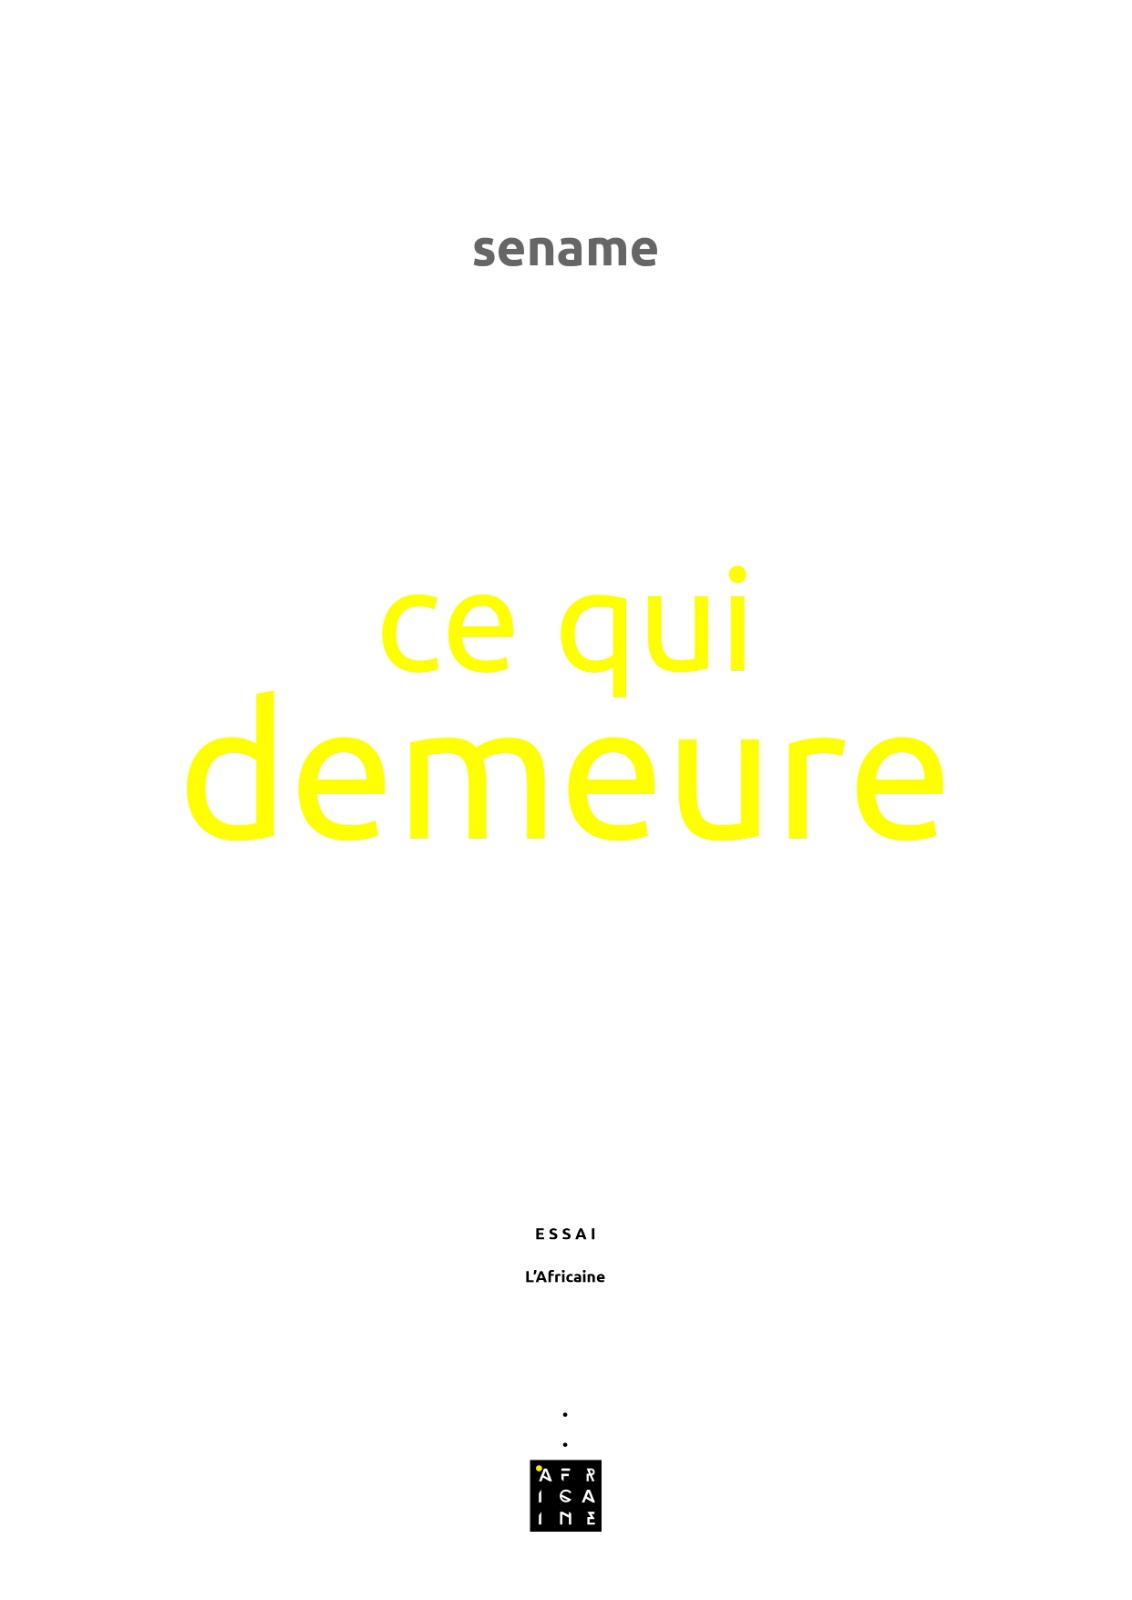
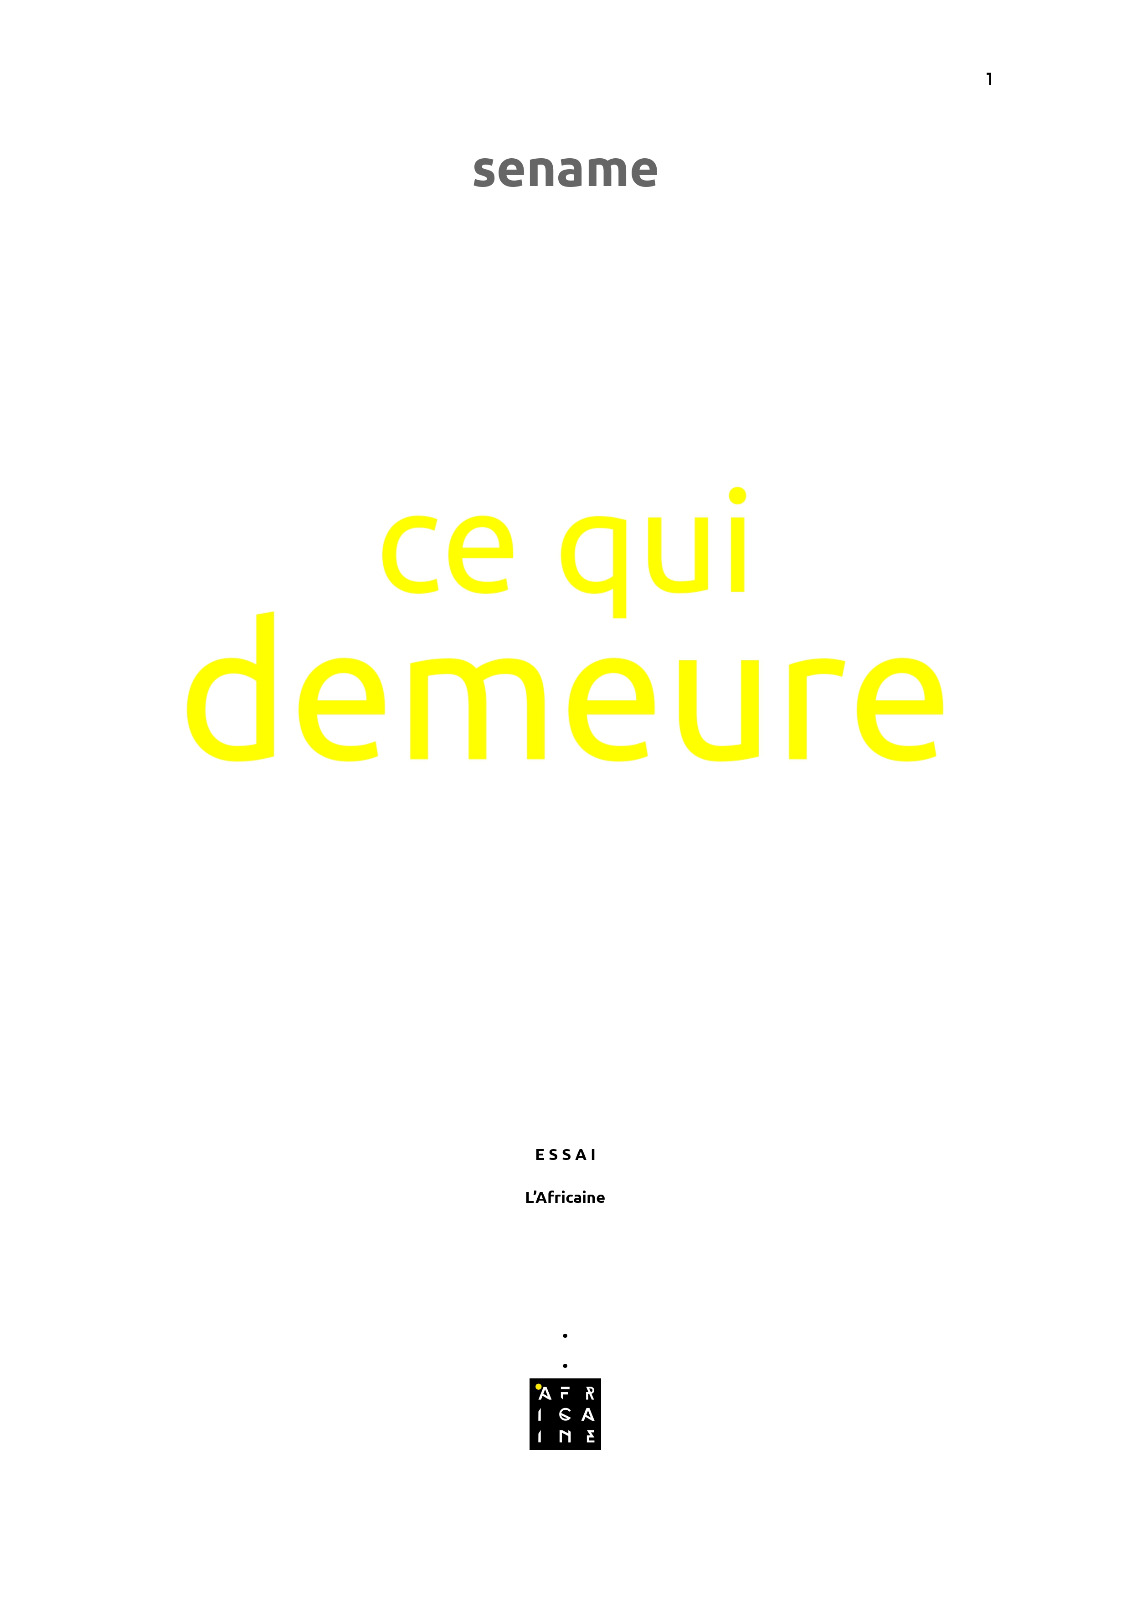
Fix image rendering artifact on ce-qui-demeure

diff --git a/src/components/BookCover.tsx b/src/components/BookCover.tsx
@@ -32,7 +32,7 @@ export default function BookCover({
         "decoloniser-le-futur": "decoloniserlefutur.jpg",
         "le-centre-de-flammes": "centredeflammes.jpg",
         "ce-qui-demeure": "cequidemeure.jpg",
-        "a-l-endroit": "a-lendroit.jpg",
+        "a-l-endroit": "a-lendroit.png",
         "cosmo-architecture": "principe-dune-cosmos-architecture.jpg",
         "comprendre-architecture-afrique": "comprendre-architecture-en-afrique-noir.jpg",
         "esthetiques-du-feminin": "esthetiquedufeminin.jpg",
@@ -43,58 +43,59 @@ export default function BookCover({
 
     const imageFile = slug ? imageMap[slug] : undefined;
 
-    return (
-        <div className={`relative flex flex-col justify-between overflow-hidden ${className}`} style={{ backgroundColor: bgColor, aspectRatio: "3 / 4", width: "100%", position: "relative" }}>
-            {imageFile ? (
-                <Image
+    if (imageFile) {
+        return (
+            <div className={`relative flex flex-col justify-between overflow-hidden ${className}`} style={{ width: "100%", height: "100%", position: "relative" }}>
+                <img
                     src={`/article/${imageFile}`}
                     alt={title || "Description"}
-                    fill
-                    className="object-contain"
-                    quality={100}
-                    priority
+                    style={{ width: "100%", height: "100%", objectFit: "cover", display: "block" }}
                 />
-            ) : (
-                <div style={{ padding: "12% 8%", textAlign: "center", display: "flex", flexDirection: "column", justifyContent: "space-between", height: "100%", backgroundColor: bgColor }}>
-                    <div style={{ marginTop: "0.5rem" }}>
-                        <span className="text-gray-900/60 lowercase" style={{ fontSize: "0.9rem", letterSpacing: "0.15em", fontWeight: 500 }}>{authorName}</span>
-                    </div>
-                    <div className="flex flex-col items-center justify-center flex-1 px-1">
-                        <h3 style={{
-                            fontSize: title.length > 35 ? "clamp(1.1rem, 2.3vw, 1.35rem)" :
-                                title.length > 25 ? "clamp(1.2rem, 2.5vw, 1.6rem)" :
-                                    "clamp(1.8rem, 3.2vw, 2.6rem)",
-                            lineHeight: "0.95",
-                            fontWeight: 700,
-                            color: "#FFEA00",
-                            letterSpacing: "-0.03em",
-                            wordBreak: "keep-all",
-                            overflowWrap: "normal",
-                            whiteSpace: "pre-line",
-                            textAlign: "center"
-                        }}>
-                            {title.toLowerCase() === "à l'endroit !" ? (
-                                <>à<br />l'endroit !</>
-                            ) : title.toLowerCase() === "décoloniser le futur" ? (
-                                <>décoloniser<br />le futur</>
-                            ) : title.toLowerCase().includes("comprendre l'architecture") ? (
-                                <>comprendre<br />l'architecture<br />en afrique<br />noire</>
-                            ) : title}
-                        </h3>
-                        {subtitle && <p className="mt-2 lowercase italic text-gray-800" style={{ fontSize: "0.62rem", letterSpacing: "0.04em", lineHeight: "1.2", fontWeight: 400 }}>{subtitle}</p>}
-                    </div>
-                    <div className="flex flex-col items-center gap-2">
-                        <div className="flex flex-col items-center">
-                            <span className="text-[0.6rem] font-bold uppercase tracking-[0.3em] text-black">
-                                {title.toLowerCase().includes("flammes") || title.toLowerCase().includes("girations") ? "POESIE" : title.toLowerCase().includes("rencontres") ? "NOUVELLES" : (title.toLowerCase().includes("architecture") || title.toLowerCase().includes("esthetiques") || title.toLowerCase().includes("esthétiques")) ? "ARTS" : "ESSAI"}
-                            </span>
-                            <span className="mt-1 text-[0.6rem] font-medium text-black">L'Africaine</span>
-                        </div>
-                        <div className="w-[1px] h-3 bg-black opacity-10"></div>
-                        <AfrLogoBadge size={16} />
-                    </div>
+            </div>
+        );
+    }
+
+    return (
+        <div className={`relative flex flex-col justify-between overflow-hidden ${className}`} style={{ backgroundColor: bgColor, aspectRatio: "3 / 4", width: "100%", position: "relative" }}>
+            <div style={{ padding: "12% 8%", textAlign: "center", display: "flex", flexDirection: "column", justifyContent: "space-between", height: "100%", backgroundColor: bgColor }}>
+                <div style={{ marginTop: "0.5rem" }}>
+                    <span className="text-gray-900/60 lowercase" style={{ fontSize: "0.9rem", letterSpacing: "0.15em", fontWeight: 500 }}>{authorName}</span>
                 </div>
-            )}
+                <div className="flex flex-col items-center justify-center flex-1 px-1">
+                    <h3 style={{
+                        fontSize: title.length > 35 ? "clamp(1.1rem, 2.3vw, 1.35rem)" :
+                            title.length > 25 ? "clamp(1.2rem, 2.5vw, 1.6rem)" :
+                                "clamp(1.8rem, 3.2vw, 2.6rem)",
+                        lineHeight: "0.95",
+                        fontWeight: 700,
+                        color: "#FFEA00",
+                        letterSpacing: "-0.03em",
+                        wordBreak: "keep-all",
+                        overflowWrap: "normal",
+                        whiteSpace: "pre-line",
+                        textAlign: "center"
+                    }}>
+                        {title.toLowerCase() === "à l'endroit !" ? (
+                            <>à<br />l'endroit !</>
+                        ) : title.toLowerCase() === "décoloniser le futur" ? (
+                            <>décoloniser<br />le futur</>
+                        ) : title.toLowerCase().includes("comprendre l'architecture") ? (
+                            <>comprendre<br />l'architecture<br />en afrique<br />noire</>
+                        ) : title}
+                    </h3>
+                    {subtitle && <p className="mt-2 lowercase italic text-gray-800" style={{ fontSize: "0.62rem", letterSpacing: "0.04em", lineHeight: "1.2", fontWeight: 400 }}>{subtitle}</p>}
+                </div>
+                <div className="flex flex-col items-center gap-2">
+                    <div className="flex flex-col items-center">
+                        <span className="text-[0.6rem] font-bold uppercase tracking-[0.3em] text-black">
+                            {title.toLowerCase().includes("flammes") || title.toLowerCase().includes("girations") ? "POESIE" : title.toLowerCase().includes("rencontres") ? "NOUVELLES" : (title.toLowerCase().includes("architecture") || title.toLowerCase().includes("esthetiques") || title.toLowerCase().includes("esthétiques")) ? "ARTS" : "ESSAI"}
+                        </span>
+                        <span className="mt-1 text-[0.6rem] font-medium text-black">L'Africaine</span>
+                    </div>
+                    <div className="w-[1px] h-3 bg-black opacity-10"></div>
+                    <AfrLogoBadge size={16} />
+                </div>
+            </div>
         </div>
     );
 }
